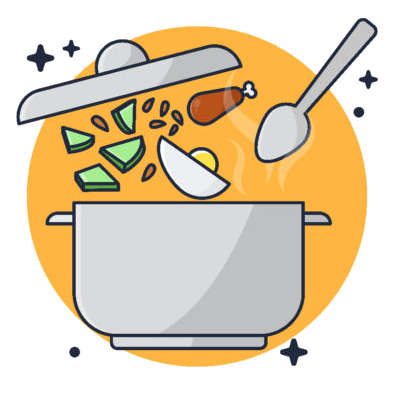
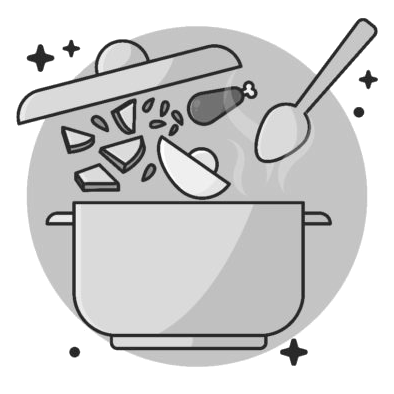
style has been added

Changed region(s): [[0.0609, 0.0609, 0.9442, 0.9442], [0.2132, 0.8223, 0.3046, 0.8832], [0.1827, 0.1523, 0.2437, 0.2132]]

diff --git a/index.html b/index.html
@@ -1,6 +1,7 @@
 <!DOCTYPE html>
 <html lang="en">
 <head>
+    <link rel="stylesheet" href="/style/style.css">
     <link rel="icon" href="images/icon.png">
     <meta charset="UTF-8">
     <meta http-equiv="X-UA-Compatible" content="IE=edge">
@@ -8,11 +9,12 @@
     <title>Odin Recipes</title>
 </head>
 <body>
-   <u><h1>Odin Recipes</h1></u>
+   <h1>Odin Recipes</h1>
     <ul>
-        <a href="./recipes/asado.html"><li><strong>asado</strong> <em>argentino</em></li></a>
-        <a href="./recipes/empanadas.html"><li><strong>empanadas</strong> <em>salteñas</em></li></a>
-        <a href="./recipes/mate.html"><li><strong>mate</strong> <em>criollo</em></li></a>
+        <a href="./recipes/asado.html"><li><strong>asado</strong> <em>argentino</em> ></li></a>
+        <a href="./recipes/empanadas.html"><li><strong>empanadas</strong> <em>salteñas</em> ></li></a>
+        <a href="./recipes/mate.html"><li><strong>mate</strong> <em>criollo</em> ></li></a>
     </ul>
+    <footer class="note"><em>Note: We never ever use coriander!</em></footer>
 </body>
 </html>

diff --git a/recipes/mate.html b/recipes/mate.html
@@ -2,6 +2,7 @@
 <html lang="en">
 
 <head>
+    <link rel="stylesheet" href="/style/style.css">
     <link rel="icon" href="../images/icon.png">
     <meta charset="UTF-8">
     <meta http-equiv="X-UA-Compatible" content="IE=edge">
@@ -10,10 +11,8 @@
 </head>
 
 <body>
-    <u>
-        <h1>Mate Criollo</h1>
-    </u>
-    <img src="../images/mate.png" alt="mate.png" width="30%" height="30%">
+   <h1>Mate Criollo</h1>
+   <img src="../images/mate.png" alt="mate.png" width="30%" height="30%">
     <p>Mate is a traditional drink in some countries in South America, especially in Argentina, Paraguay, Uruguay,
         Chile, Bolivia and Brazil.<br>
         The drink, which contains mateine (an analog of caffeine), is made by an infusion of dried leaves of yerba mate
@@ -34,7 +33,7 @@
         <li>Pour hot, not boiling, water into the yerba mate tea and drink.</li>
     </ol>
     <footer>
-        <p><a href="../index.html">go back</a></p>
+        <p><a href="../index.html">< go back</a></p>
     </footer>
 </body>
 

diff --git a/recipes/empanadas.html b/recipes/empanadas.html
@@ -2,6 +2,7 @@
 <html lang="en">
 
 <head>
+    <link rel="stylesheet" href="/style/style.css">
     <link rel="icon" href="../images/icon.png">
     <meta charset="UTF-8">
     <meta http-equiv="X-UA-Compatible" content="IE=edge">
@@ -10,9 +11,7 @@
 </head>
 
 <body>
-    <u>
-        <h1>Empanadas Salteñas</h1>
-    </u>
+    <h1>Empanadas Salteñas</h1>
     <img src="../images/empanadas.png" alt="empanadas.png" width="30%" height="30%">
     <p>These are truly traditional beef empanadas from Salta, one of the Northern Provinces in Argentina.<br> Made with
         ground beef, potatoes, hard-boiled eggs, and a fluffy homemade empanada pastry, these are just to die for!</p>
@@ -66,7 +65,7 @@
             just a little before serving.</li>
     </ol>
     <footer>
-        <p><a href="../index.html">go back</a></p>
+        <p><a href="../index.html">< go back</a></p>
     </footer>
 </body>
 

diff --git a/recipes/asado.html b/recipes/asado.html
@@ -2,6 +2,7 @@
 <html lang="en">
 
 <head>
+    <link rel="stylesheet" href="/style/style.css">
     <link rel="icon" href="../images/icon.png">
     <meta charset="UTF-8">
     <meta http-equiv="X-UA-Compatible" content="IE=edge">
@@ -10,9 +11,7 @@
 </head>
 
 <body>
-    <u>
-        <h1>Asado Argentino</h1>
-    </u>
+    <h1>Asado Argentino</h1>
     <img src="../images/asado.png" alt="asado.png" width="30%" height="30%">
     <p>Argentinian culture is renowned for beef and asados (barbecues).<br>Red chimichurri sauce is the typical sauce
         accompaniment.</p>
@@ -63,7 +62,7 @@
             desired doneness level, or about 5 minutes per side.<br>Serve with chimichurri.</li>
     </ol>
     <footer>
-        <p><a href="../index.html">go back</a></p>
+        <p><a href="../index.html">< go back</a></p>
     </footer>
 </body>
 

diff --git a/style/style.css b/style/style.css
@@ -1,0 +1,44 @@
+*{
+background-image: url(../images/empanadas.png);
+background-repeat: repeat;
+background-size: 1.5px 1.5px;
+background-color: rgb(232, 232, 232);
+text-decoration: none;
+color: #555555;
+}
+h1{
+    font-size: 3.5vw;
+    background-color:  #d8d8d8;
+    text-align: center;
+}
+h2{ 
+    font-size: 2.5vw;
+    margin: 5vw;
+}
+p{
+    font-size: 2vw;
+    margin-left: 1.5vw;
+}
+ul{
+    margin-top: 50px;
+    margin-bottom: 50px;
+    margin-left: 35vw;
+}
+ol{
+    margin-top: 50px;
+    margin-bottom: 50px;
+}
+li{
+    font-size: 1.85vw;
+    margin-top: 10px;
+}
+img {
+    margin-left: 32vw;
+}
+.note{
+    position: fixed;
+    padding: 10px 10px 0px 10px;
+    bottom: 0;
+    width: 100%;
+    height: 40px;
+}
